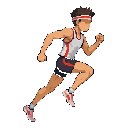
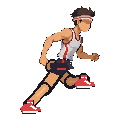
Adopt the corrected alternating-leg run cycle
Frames 5-8 swap the near/far leg shading of 1-4, which is how an
alternating stride reads in side view, so the runner no longer hops on
one leg. Contact frames touched down three rows above the ground line;
the packer nudges the set down. The first set stays as runner_v1_NN.

Claude-Session: https://claude.ai/code/session_01EJGdPFEJJAEzArUYCthXfT

diff --git a/tools/pack_runner.py b/tools/pack_runner.py
@@ -26,6 +26,8 @@ FOOT_Y = 121
 # 1.4x too large; those are scaled back down to the standing size.
 SCALE = {("trip_and_fall", i): 0.72 for i in range(7, 13)}
 
+# The run cycle is the corrected alternating-leg set; the first set
+# (same leg forward in every frame) is kept as runner_v1_NN.
 ANIMS = {
     "idle": ("idle_bouncing", range(1, 9), 8, True, None),
     "rest": ("exhausted_stop", range(9, 13), 5, True, None),
@@ -153,6 +155,10 @@ def anchor_feet(a):
 # Sets whose frames drift sideways; anchored on the feet.
 ANCHOR = {"get_up", "idle_stretching"}
 
+# Whole-set vertical nudges: the corrected run cycle's contact frames
+# touch down on row 118, three rows above the ground line.
+SHIFT_Y = {"runner": 3}
+
 
 def load(prefix, i):
     a = np.array(Image.open(f"{SRC}/{prefix}_{i:02d}.png").convert("RGBA"))
@@ -161,6 +167,8 @@ def load(prefix, i):
         a = shrink(a, SCALE[(prefix, i)])
     if prefix in ANCHOR:
         a = anchor_feet(a)
+    if prefix in SHIFT_Y:
+        a = np.roll(a, SHIFT_Y[prefix], axis=0)
     img = Image.new("RGBA", (FW, FH), (0, 0, 0, 0))
     ImageDraw.Draw(img).ellipse(
         [FW // 2 - 26, FOOT_Y - 3, FW // 2 + 24, FOOT_Y + 4], fill=(10, 8, 20, 70)
